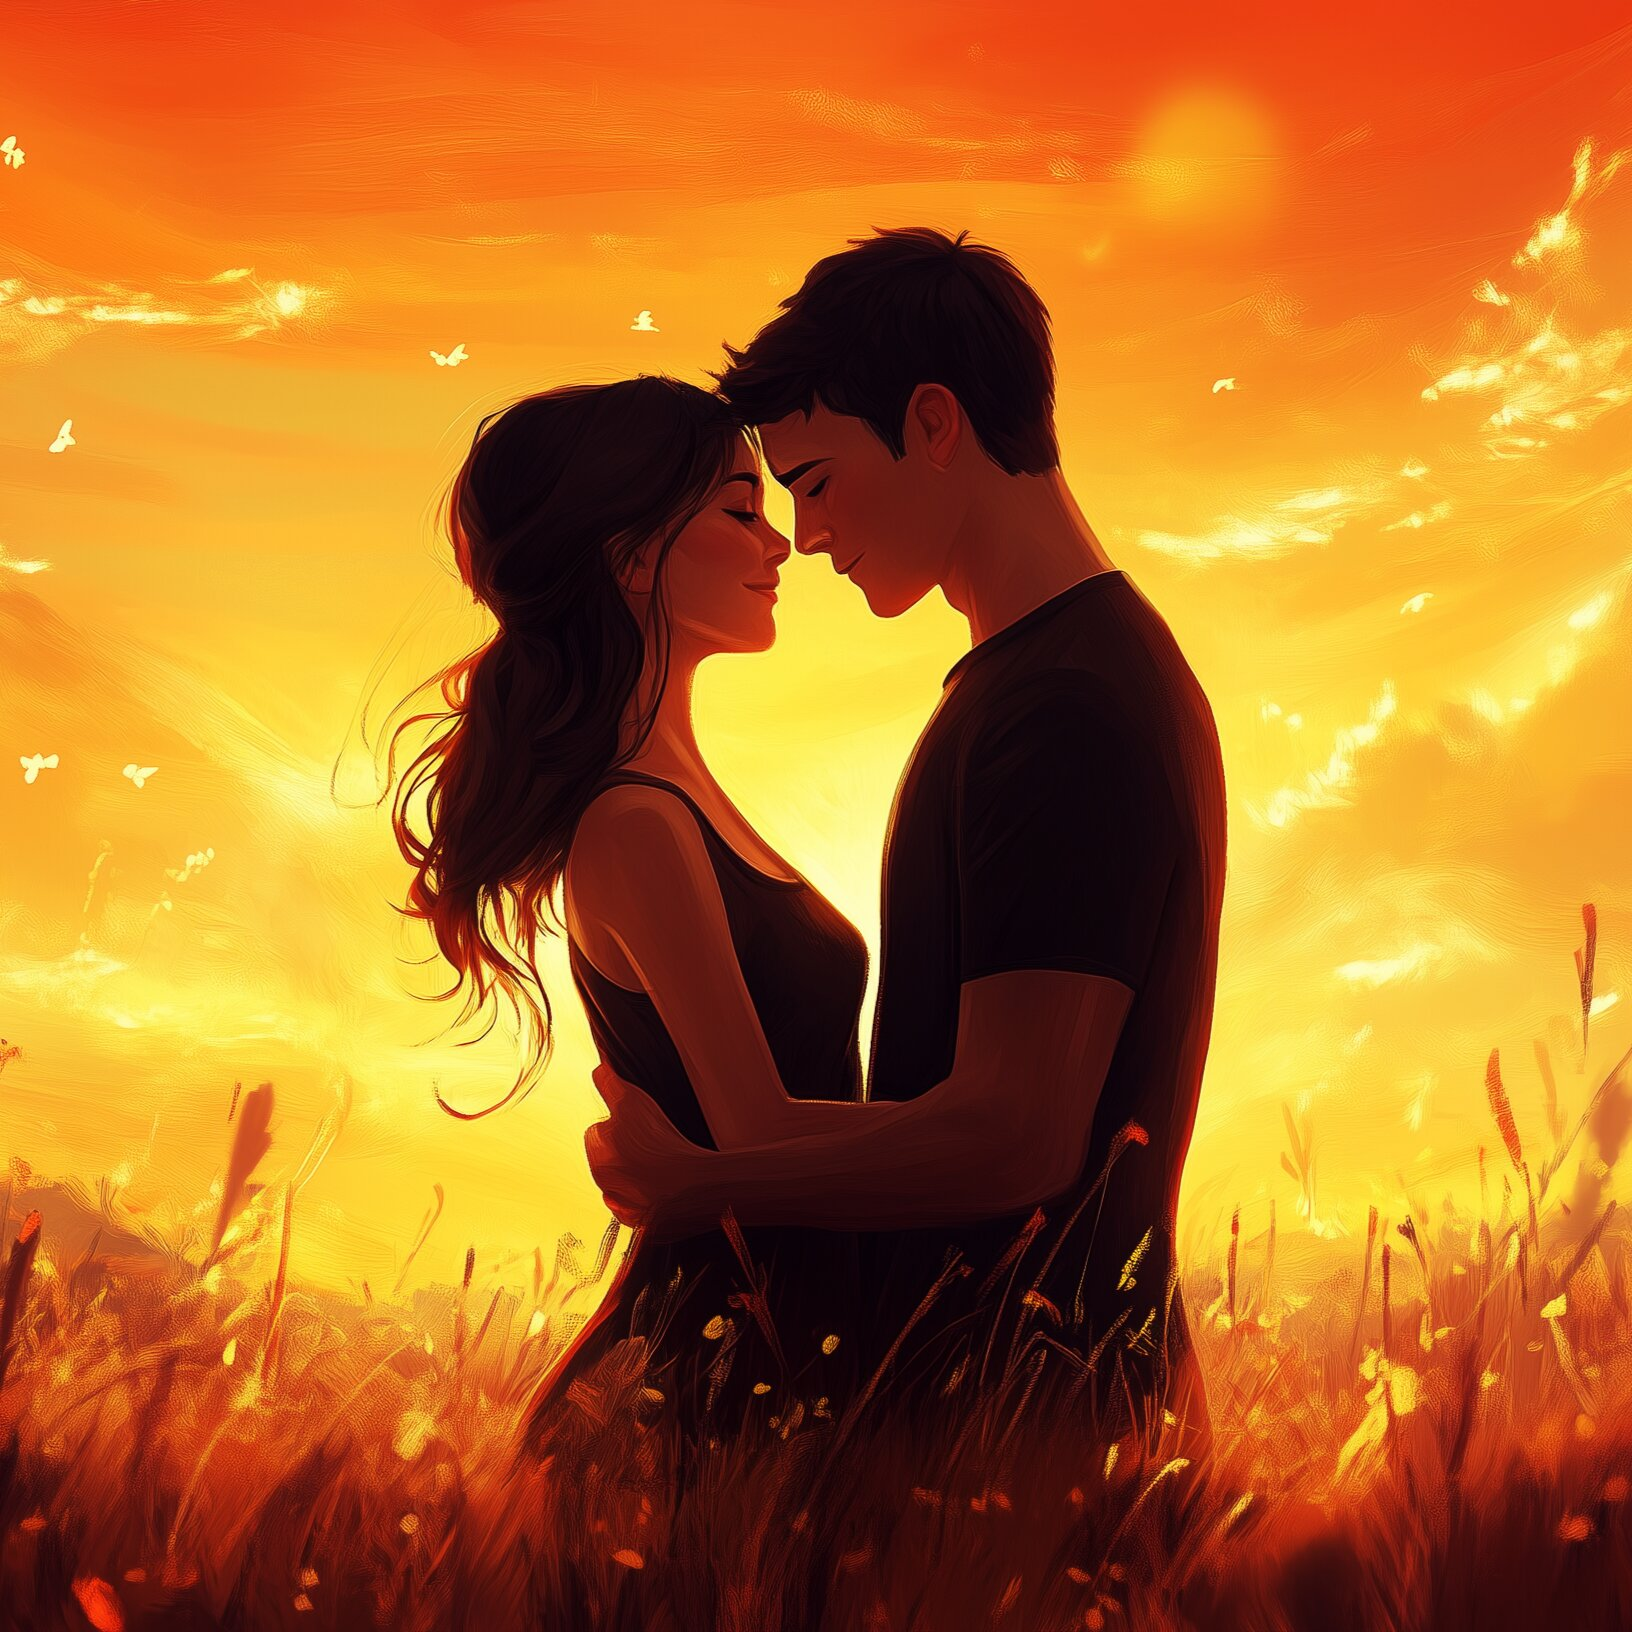
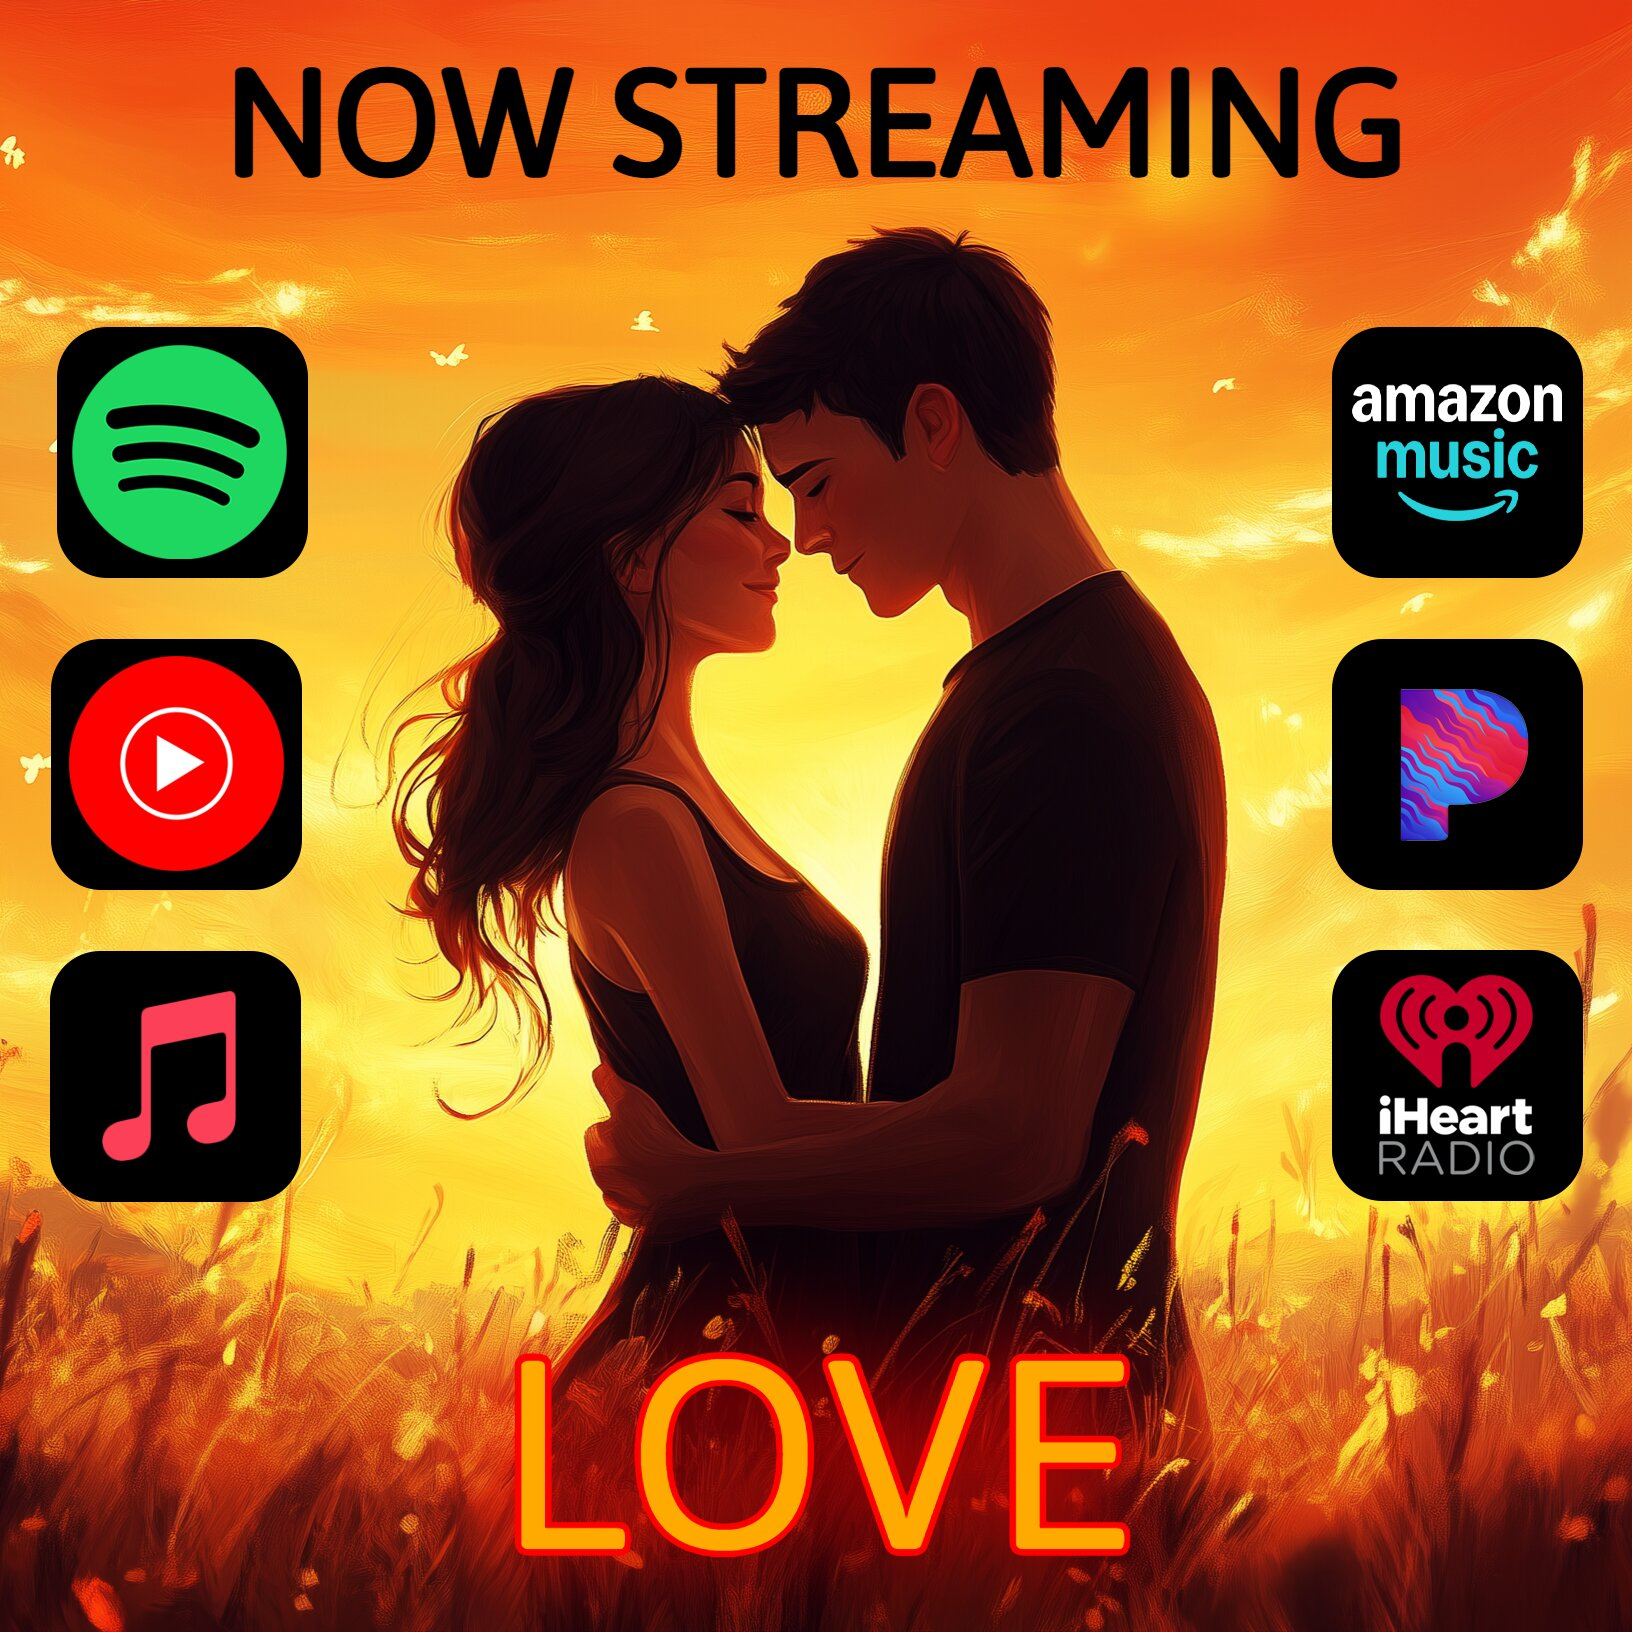
updated release page

diff --git a/music.html b/music.html
@@ -19,9 +19,9 @@
   <br>
   <div class="content">
     <h1><u>Music</u></h1>
-    <p><a href="https://distrokid.com/hyperfollow/liefesutliff/love" target="_blank" class="presaveLink">Pre-save</a> Love, Now!</p>
+    <p><a href="https://distrokid.com/hyperfollow/liefesutliff" target="_blank" class="presaveLink">Stream</a> Love, Now!</p>
     <!-- Make sure to update preload image list in Javascript -->
-    <div><a href="https://distrokid.com/hyperfollow/liefesutliff/love" target="_blank"><img src="images/love.jpg" alt="Daydream Art" class="newReleasePic"></a></div>
+    <div><a href="https://distrokid.com/hyperfollow/liefesutliff" target="_blank"><img src="images/love.jpg" alt="Daydream Art" class="newReleasePic"></a></div>
     <!-- Make sure to update preload image list in Javascript -->
     <p>Want to listen to all my music?</p>
     <div class="icons">
